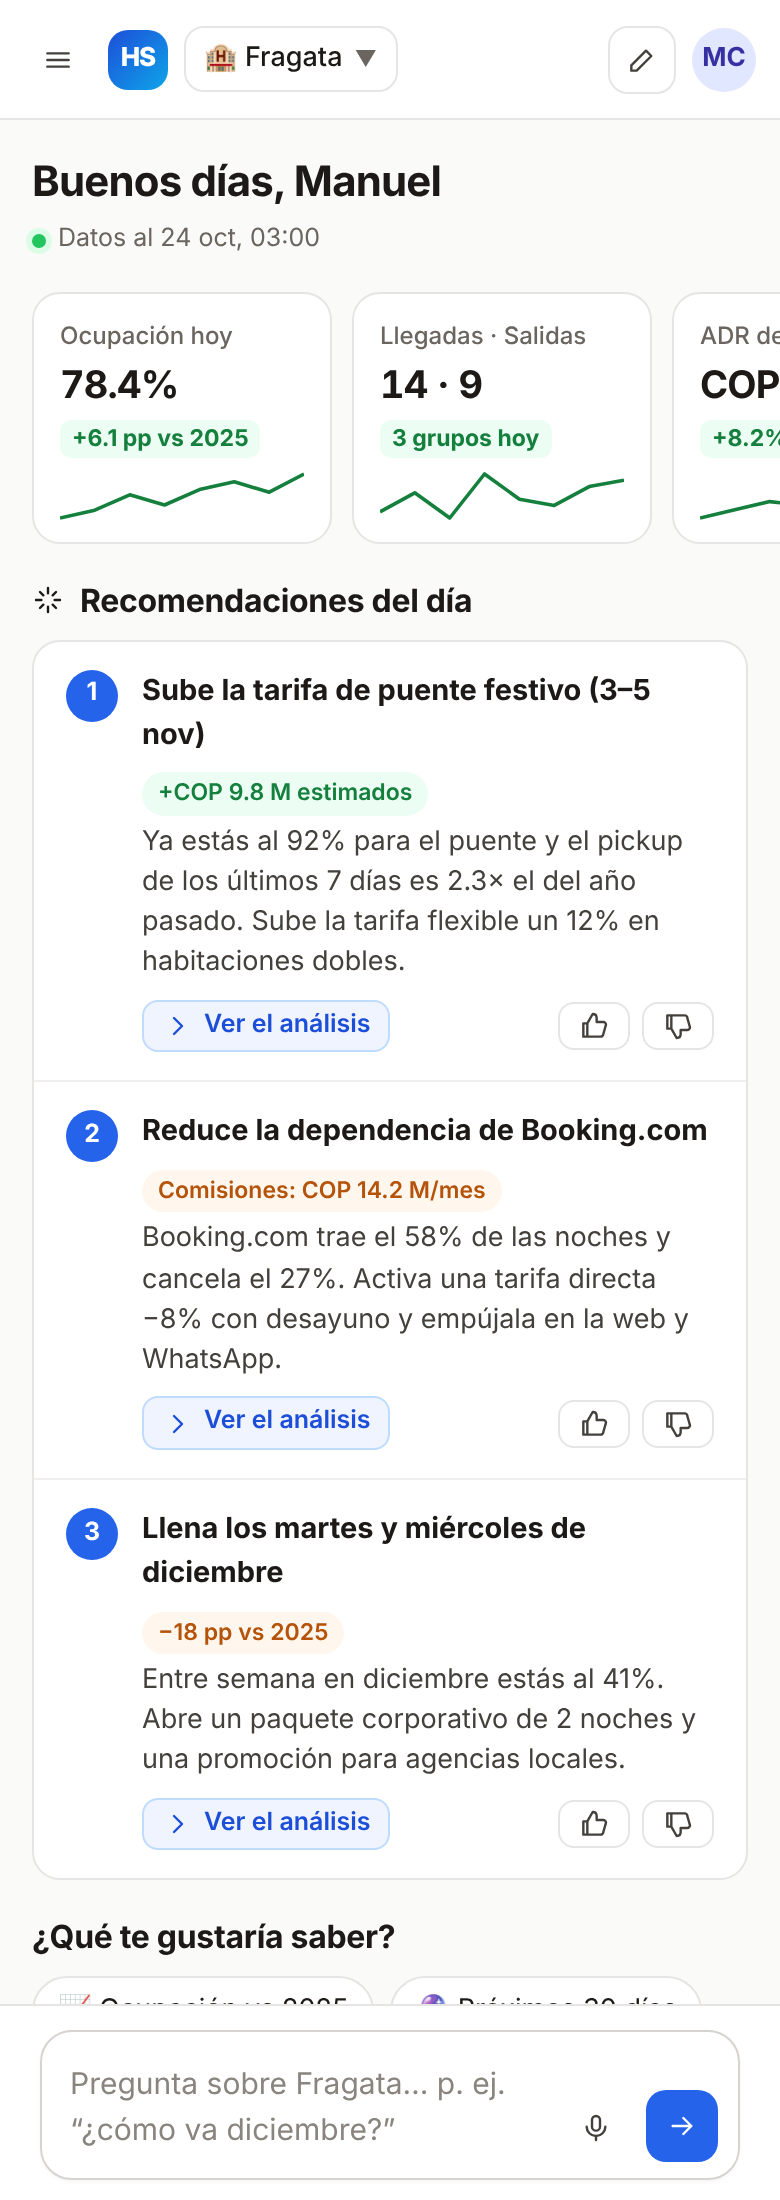
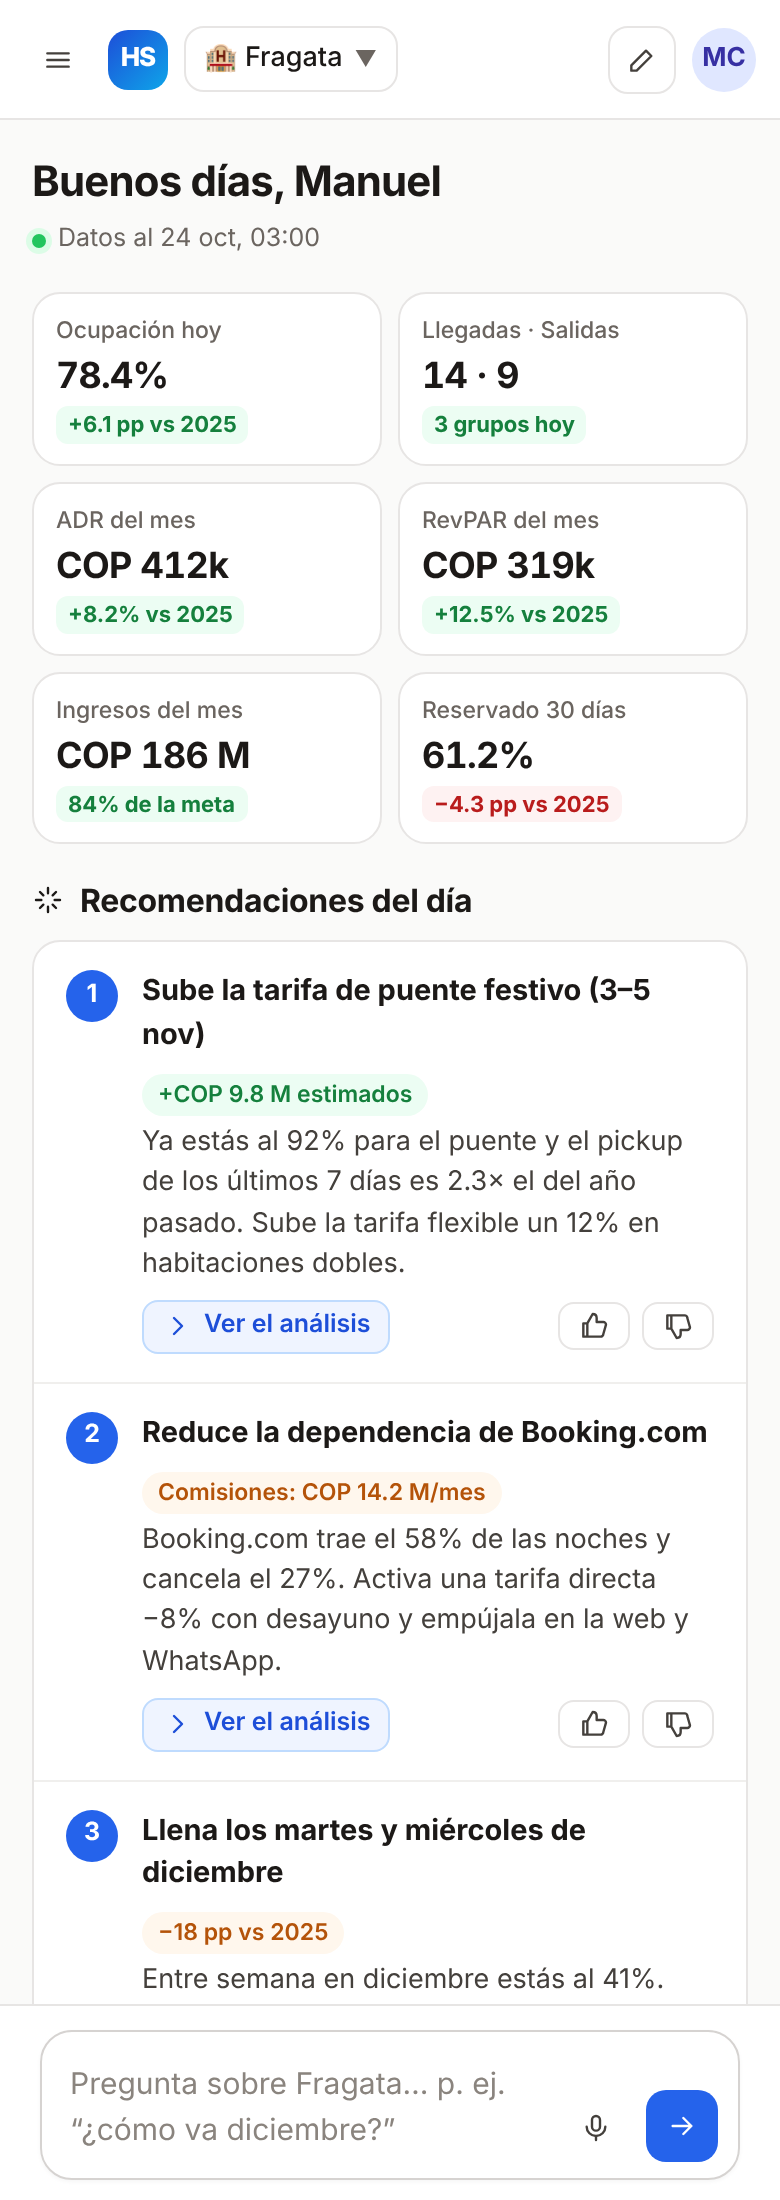
Prototype: phone key figures in a 2 x 3 grid without trend lines
Claude-Session: https://claude.ai/code/session_01EHAfP6YnDxfUur9sW21rdR

diff --git a/docs/prototype/04-movil.html b/docs/prototype/04-movil.html
@@ -7,7 +7,7 @@
 <button class="iconbtn" title="Nuevo chat"><svg class="ic" width="17" height="17" viewBox="0 0 24 24" fill="none" stroke="currentColor" stroke-width="1.8" stroke-linecap="round" stroke-linejoin="round"><path d="M4 20h4L19 9l-4-4L4 16v4z"/></svg></button><span class="avatar">MC</span></header>
 <div class="scroll"><div style="padding:16px;display:flex;flex-direction:column;gap:16px">
 <div><h1 style="font-size:21px">Buenos días, Manuel</h1><span class="fresh"><span class="dot"></span>Datos al 24 oct, 03:00</span></div>
-<div style="display:flex;gap:10px;overflow:hidden;margin-right:-16px"><div class="kpi" style="min-width:150px"><span class="l">Ocupación hoy</span><span class="v" style="font-size:19px">78.4%</span><span class="delta up">+6.1 pp vs 2025</span><svg width="100%" height="26" viewBox="0 0 120 26" preserveAspectRatio="none"><polyline points="0.0,24.0 17.1,20.1 34.3,12.4 51.4,17.5 68.6,9.8 85.7,5.9 102.9,11.1 120.0,2.0" fill="none" stroke="#15803d" stroke-width="1.8" stroke-linejoin="round" vector-effect="non-scaling-stroke"/></svg></div><div class="kpi" style="min-width:150px"><span class="l">Llegadas · Salidas</span><span class="v" style="font-size:19px">14 · 9</span><span class="delta up">3 grupos hoy</span><svg width="100%" height="26" viewBox="0 0 120 26" preserveAspectRatio="none"><polyline points="0.0,20.9 17.1,11.4 34.3,24.0 51.4,2.0 68.6,14.6 85.7,17.7 102.9,8.3 120.0,5.1" fill="none" stroke="#15803d" stroke-width="1.8" stroke-linejoin="round" vector-effect="non-scaling-stroke"/></svg></div><div class="kpi" style="min-width:150px"><span class="l">ADR del mes</span><span class="v" style="font-size:19px">COP 412k</span><span class="delta up">+8.2% vs 2025</span><svg width="100%" height="26" viewBox="0 0 120 26" preserveAspectRatio="none"><polyline points="0.0,24.0 17.1,19.9 34.3,15.8 51.4,17.8 68.6,9.6 85.7,6.8 102.9,4.1 120.0,2.0" fill="none" stroke="#15803d" stroke-width="1.8" stroke-linejoin="round" vector-effect="non-scaling-stroke"/></svg></div><div class="kpi" style="min-width:150px"><span class="l">RevPAR del mes</span><span class="v" style="font-size:19px">COP 319k</span><span class="delta up">+12.5% vs 2025</span><svg width="100%" height="26" viewBox="0 0 120 26" preserveAspectRatio="none"><polyline points="0.0,24.0 17.1,20.0 34.3,17.7 51.4,15.0 68.6,10.1 85.7,7.8 102.9,5.1 120.0,2.0" fill="none" stroke="#15803d" stroke-width="1.8" stroke-linejoin="round" vector-effect="non-scaling-stroke"/></svg></div><div class="kpi" style="min-width:150px"><span class="l">Ingresos del mes</span><span class="v" style="font-size:19px">COP 186 M</span><span class="delta up">84% de la meta</span><svg width="100%" height="26" viewBox="0 0 120 26" preserveAspectRatio="none"><polyline points="0.0,24.0 17.1,20.8 34.3,18.3 51.4,15.4 68.6,12.1 85.7,9.2 102.9,5.4 120.0,2.0" fill="none" stroke="#15803d" stroke-width="1.8" stroke-linejoin="round" vector-effect="non-scaling-stroke"/></svg></div><div class="kpi" style="min-width:150px"><span class="l">Reservado 30 días</span><span class="v" style="font-size:19px">61.2%</span><span class="delta down">−4.3 pp vs 2025</span><svg width="100%" height="26" viewBox="0 0 120 26" preserveAspectRatio="none"><polyline points="0.0,2.0 17.1,6.9 34.3,11.8 51.4,14.2 68.6,16.7 85.7,19.1 102.9,21.6 120.0,24.0" fill="none" stroke="#b91c1c" stroke-width="1.8" stroke-linejoin="round" vector-effect="non-scaling-stroke"/></svg></div></div>
+<div style="display:grid;grid-template-columns:1fr 1fr;gap:8px"><button class="kpi" style="padding:10px 11px;gap:1px"><span class="l" style="font-size:11.5px">Ocupación hoy</span><span class="v" style="font-size:18px">78.4%</span><span class="delta up" style="font-size:11px">+6.1 pp vs 2025</span></button><button class="kpi" style="padding:10px 11px;gap:1px"><span class="l" style="font-size:11.5px">Llegadas · Salidas</span><span class="v" style="font-size:18px">14 · 9</span><span class="delta up" style="font-size:11px">3 grupos hoy</span></button><button class="kpi" style="padding:10px 11px;gap:1px"><span class="l" style="font-size:11.5px">ADR del mes</span><span class="v" style="font-size:18px">COP 412k</span><span class="delta up" style="font-size:11px">+8.2% vs 2025</span></button><button class="kpi" style="padding:10px 11px;gap:1px"><span class="l" style="font-size:11.5px">RevPAR del mes</span><span class="v" style="font-size:18px">COP 319k</span><span class="delta up" style="font-size:11px">+12.5% vs 2025</span></button><button class="kpi" style="padding:10px 11px;gap:1px"><span class="l" style="font-size:11.5px">Ingresos del mes</span><span class="v" style="font-size:18px">COP 186 M</span><span class="delta up" style="font-size:11px">84% de la meta</span></button><button class="kpi" style="padding:10px 11px;gap:1px"><span class="l" style="font-size:11.5px">Reservado 30 días</span><span class="v" style="font-size:18px">61.2%</span><span class="delta down" style="font-size:11px">−4.3 pp vs 2025</span></button></div>
 <section><div style="display:flex;align-items:center;gap:8px;margin-bottom:8px"><svg class="ic" width="16" height="16" viewBox="0 0 24 24" fill="none" stroke="currentColor" stroke-width="1.8" stroke-linecap="round" stroke-linejoin="round"><path d="M12 3v4M12 17v4M3 12h4M17 12h4M6 6l2.5 2.5M15.5 15.5 18 18M6 18l2.5-2.5M15.5 8.5 18 6"/></svg><h2>Recomendaciones del día</h2></div><div class="card"><div class="rec"><span class="num">1</span><div style="flex:1;min-width:0">
 <div style="display:flex;gap:8px;align-items:baseline;flex-wrap:wrap"><b style="font-size:14.5px">Sube la tarifa de puente festivo (3–5 nov)</b>
 <span class="tag money">+COP 9.8 M estimados</span></div>

diff --git a/docs/prototype/build.py b/docs/prototype/build.py
@@ -270,9 +270,10 @@ def working():
 
 def mobile():
     kp = "".join(
-        f'<div class="kpi" style="min-width:150px"><span class="l">{l}</span><span class="v" style="font-size:19px">{v}</span>'
-        f'<span class="delta {k}">{d}</span>{spark(s, "#15803d" if k == "up" else "#b91c1c")}</div>'
-        for l, v, d, k, s in KPIS)
+        # Phones: all six at a glance in a 2 x 3 grid, without the trend lines.
+        f'<button class="kpi" style="padding:10px 11px;gap:1px"><span class="l" style="font-size:11.5px">{l}</span>'
+        f'<span class="v" style="font-size:18px">{v}</span><span class="delta {k}" style="font-size:11px">{d}</span></button>'
+        for l, v, d, k, _ in KPIS)
     body = f"""<div style="height:100vh;display:flex;flex-direction:column">
 <header class="hdr" style="padding:0 12px;gap:8px"><button class="iconbtn" style="border:0">{ic('menu', 20)}</button>
 <div class="logo" style="width:30px;height:30px;font-size:13px">HS</div>
@@ -280,7 +281,7 @@ def mobile():
 <button class="iconbtn" title="Nuevo chat">{ic('edit', 17)}</button><span class="avatar">MC</span></header>
 <div class="scroll"><div style="padding:16px;display:flex;flex-direction:column;gap:16px">
 <div><h1 style="font-size:21px">Buenos días, Manuel</h1><span class="fresh"><span class="dot"></span>Datos al 24 oct, 03:00</span></div>
-<div style="display:flex;gap:10px;overflow:hidden;margin-right:-16px">{kp}</div>
+<div style="display:grid;grid-template-columns:1fr 1fr;gap:8px">{kp}</div>
 <section><div style="display:flex;align-items:center;gap:8px;margin-bottom:8px">{ic('spark', 16)}<h2>Recomendaciones del día</h2></div>{recs(compact=True)}</section>
 <section><h2 style="margin-bottom:8px">¿Qué te gustaría saber?</h2><div class="chips">
 <button class="chip">📈 Ocupación vs 2025</button><button class="chip">🔮 Próximos 30 días</button><button class="chip">🌐 Canales</button><button class="chip">📗 Exportar a Excel</button></div></section>
